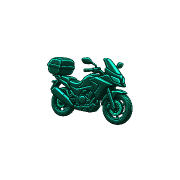
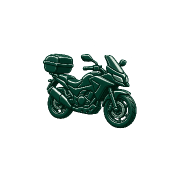
fix(pictograma): arte limpa mantem a cor do autor e iguala pela caixa
O Agnaldo olhou a moto normalizada: "o verde ficou parecido com pinceladas de
neon e o tamanho esta menor que os demais". Os dois estavam certos, e os dois
eram do normalizador, nao da arte — ele chegou a perguntar se tinha carregado a
imagem errada. Nao tinha: conferi as duas, 1254x1254 e a mesma transparencia.

COR. A reancoragem no verde unico existe para unir tons desencontrados do
acervo ANTIGO. Numa arte que ja nasce no verde da casa ela so satura, e foi o
neon que ele viu. Com --limpo a cor do autor passa intacta; o volume de luz e
sombra que ele desenhou fica como esta.

TAMANHO. A media geometrica entre caixa e tinta penaliza desenho detalhado:
raio de roda, disco de freio e grade acumulam TINTA sem ganhar presenca, entao
a media encolhe a peca para "caber" no alvo. A moto saiu em 0,48 de caixa
contra 0,50 do carro — e o olho compara tamanho aparente, que e a caixa, nao a
quantidade de tinta. Com --limpo a escala iguala pela caixa.

Medido depois, nas duas dimensoes:
  moto    largura 0,52  altura 0,42
  carro   largura 0,50  altura 0,39
  onibus  largura 0,51  altura 0,37
  navio   largura 0,52  altura 0,40
Deixou de ser a menor; ficou levemente acima da media, que e o certo para um
assunto largo.

Nenhum outro glifo foi tocado: so os tres ficheiros da moto aparecem no diff.

Changed region(s): [[0.2222, 0.2778, 0.7778, 0.7222]]

diff --git a/scripts/normalizar_pictogramas.js b/scripts/normalizar_pictogramas.js
@@ -173,7 +173,12 @@ function processar(arquivo, base, limpo) {
         // desenho cheio encolhe — e a faixa impede qualquer extremo.
         const porCaixa = (S * CAIXA_ALVO) / lado;
         const porTinta = Math.sqrt((TINTA_ALVO * S * S) / tinta);
-        let escala = Math.sqrt(porCaixa * porTinta);
+        // Arte limpa iguala pela CAIXA, não pela média com a tinta: desenho com
+        // muito detalhe fino (raios, discos, grades) acumula tinta sem ganhar
+        // presença, então a média o encolhe para "caber" — a moto ficou em 0,48
+        // de caixa contra 0,50 do carro e pareceu menor (Agnaldo, 23/10/2026).
+        // O olho compara o tamanho aparente, e esse é a caixa.
+        let escala = limpo ? porCaixa : Math.sqrt(porCaixa * porTinta);
         const caixa = (lado * escala) / S;
         if (caixa > CAIXA_MAX) escala = (S * CAIXA_MAX) / lado;
         if (caixa < CAIXA_MIN) escala = (S * CAIXA_MIN) / lado;
@@ -196,10 +201,21 @@ function processar(arquivo, base, limpo) {
                 // REANCORAGEM DE COR: a razão entre a luminância do pixel e a
                 // média do glifo é o que carrega o volume. Multiplicar o verde
                 // alvo por essa razão troca a cor sem achatar luz e sombra.
+                //
+                // NÃO se aplica a arte limpa. A reancoragem existe para unificar
+                // tons desencontrados do acervo ANTIGO; numa arte que já nasce no
+                // verde da casa ela só satura — a moto saiu "pincelada de neon"
+                // (Agnaldo, 23/10/2026). Arte limpa mantém os tons do autor.
+                if (limpo) {
+                    ar += cor[p * 3] * a;
+                    ag += cor[p * 3 + 1] * a;
+                    ab += cor[p * 3 + 2] * a;
+                } else {
                 const r = lum(cor[p * 3], cor[p * 3 + 1], cor[p * 3 + 2]) / Lmedia;
                 ar += clamp(VERDE_ALVO[0] * r, 0, 255) * a;
                 ag += clamp(VERDE_ALVO[1] * r, 0, 255) * a;
                 ab += clamp(VERDE_ALVO[2] * r, 0, 255) * a;
+                }
                 aa += a;
             }
             const n = F * F, d = (y * S + x) * 4;
